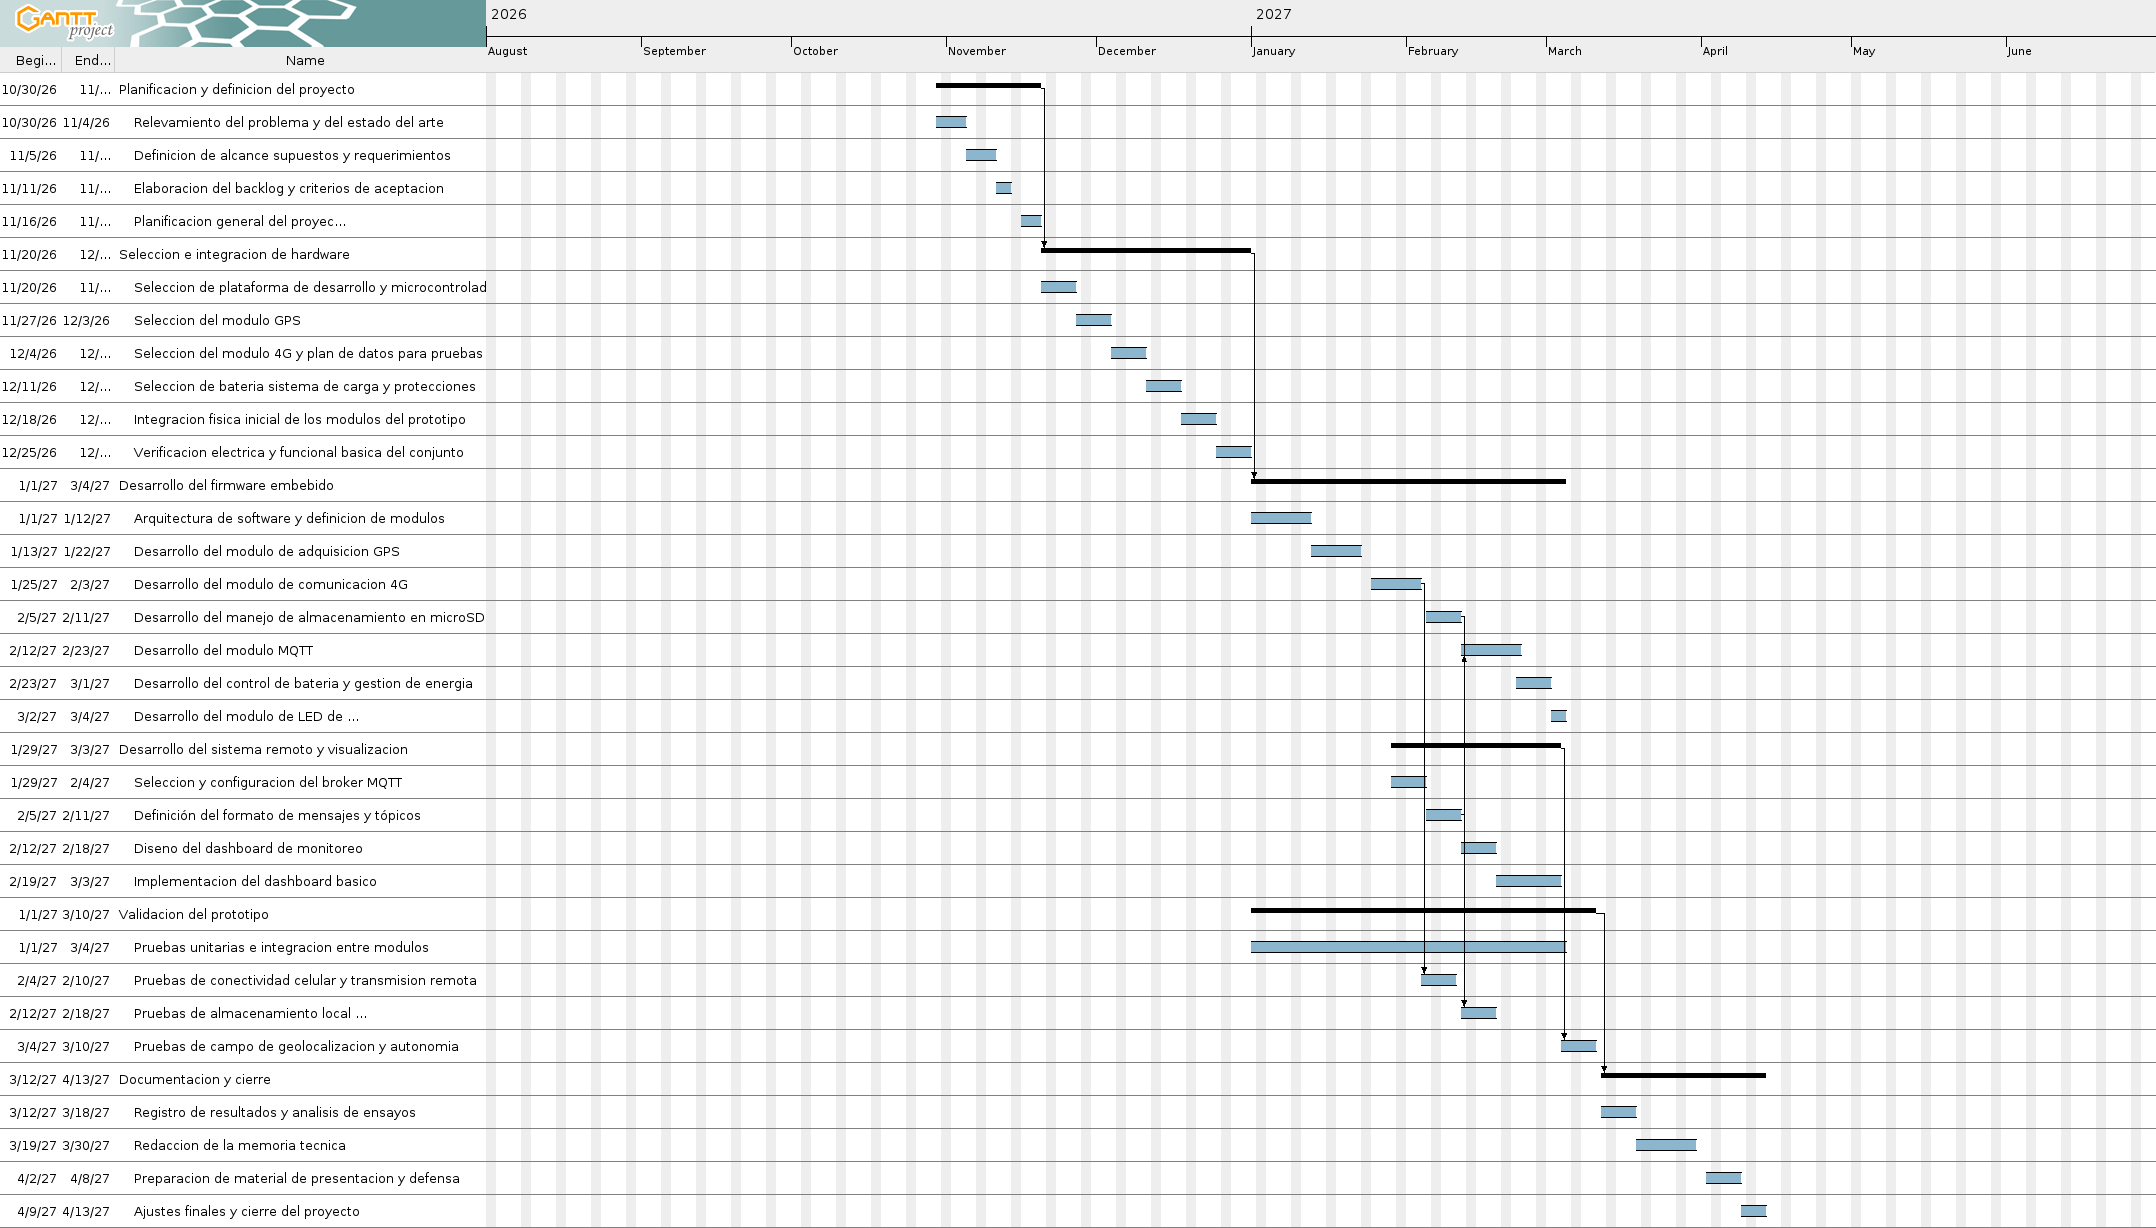
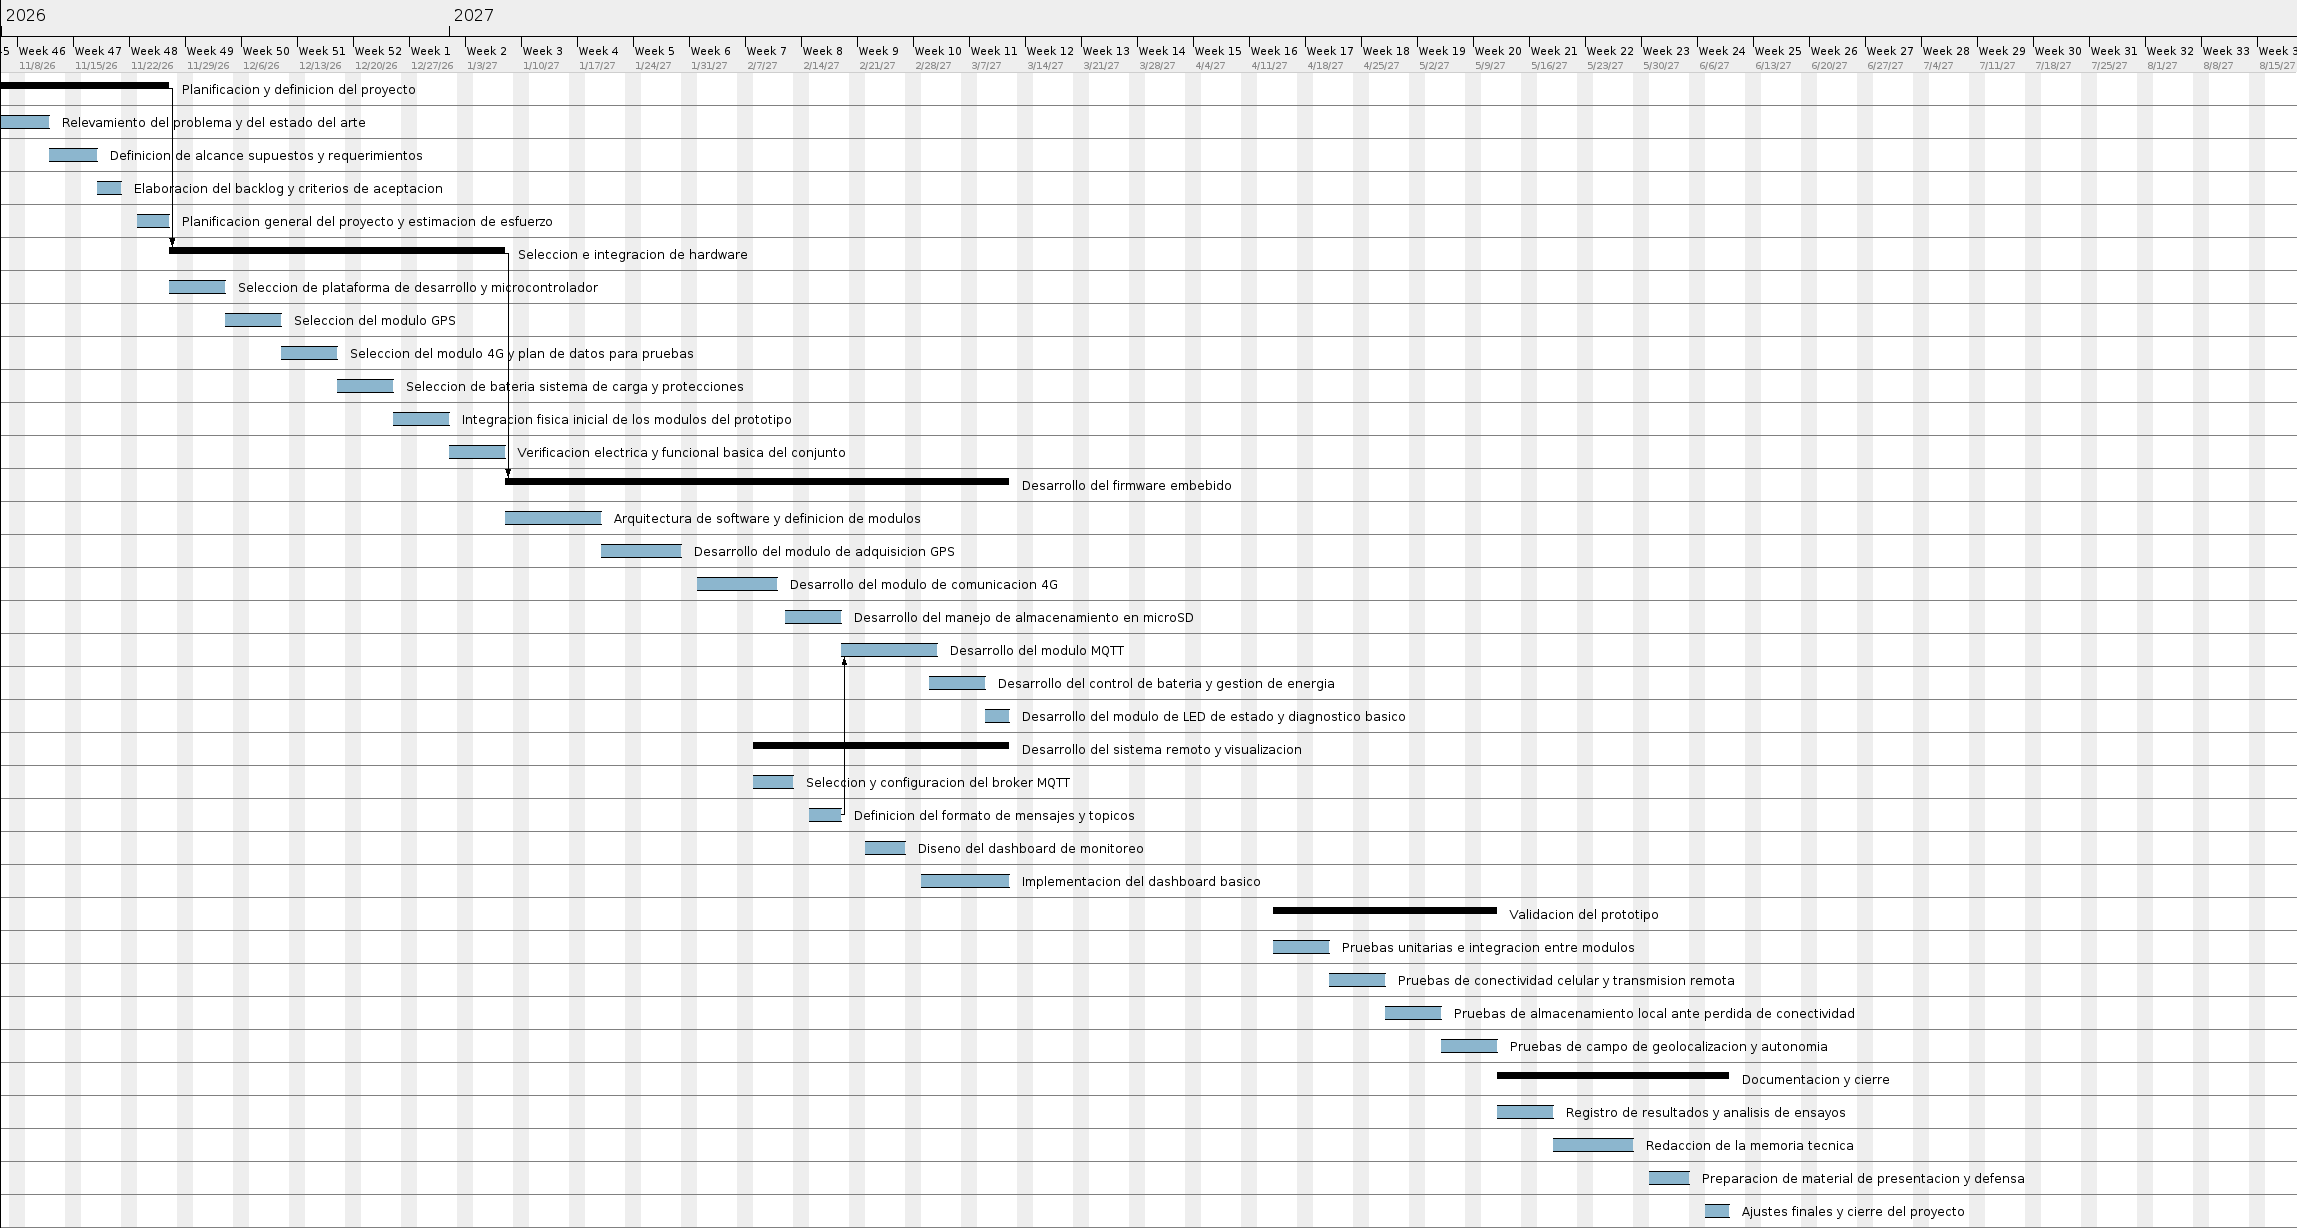
move table

diff --git a/charter.tex b/charter.tex
@@ -28,6 +28,8 @@
 \fechaFINALPlan{16 de junio de 2026} 	%Fecha de final de cursada de GdP
 \fechaFINALTrabajo{junio de 2027}	%Fecha de defensa pública del trabajo final
 
+\usepackage{xltabular}
+
 % Fuerza los nombres automáticos de figuras en español.
 \AtBeginDocument{%
   \selectlanguage{spanish}%
@@ -435,23 +437,14 @@ El diagrama de \textit{Activity on Node} se armó a partir del WBS definido en l
 
 A continuación se muestra una tabla con las fechas de inicio y fin de cada tarea y su carga en cantidad de horas. Además, en la figura \ref{fig:diagGantt} se presenta el diagrama de Gantt del proyecto. Este cronograma resume la distribución temporal de las actividades principales, muestra las tareas del EDT y deberá mantenerse consistente con la fecha de finalización indicada en el Acta Constitutiva.
 
-\setlength{\LTleft}{0pt}
-\setlength{\LTright}{0pt}
-\fontsize{6.4}{7.0}\selectfont
+\normalsize
 \setlength{\tabcolsep}{2pt}
 \renewcommand{\arraystretch}{0.88}
-\begin{longtable}{|C{0.7cm}|L{6.4cm}|C{1.8cm}|C{1.8cm}|C{1.2cm}|}
-\rowcolor[HTML]{C0C0C0}
-ID & Actividad & Fecha de inicio & Fecha de fin & Duración \\ \hline
-\endfirsthead
+\centering
+\begin{tabularx}{\linewidth}{@{}|C{0.8cm}|>{\raggedright\arraybackslash}X|C{1.9cm}|C{1.9cm}|C{1.6cm}|@{}}
 \hline
 \rowcolor[HTML]{C0C0C0}
-ID & Actividad & Fecha de inicio & Fecha de fin & Duración \\ \hline
-\endhead
-\hline
-\endfoot
-\hline
-\endlastfoot
+ID & Actividad & \shortstack{Fecha de\\inicio} & \shortstack{Fecha de\\fin} & Duración \\ \hline
 1 & Planificación y definición del proyecto & 1/11/27 & 1/29/27 & 15 \\ \hline
 2 & Relevamiento del problema y del estado del arte & 1/11/27 & 1/14/27 & 4 \\ \hline
 3 & Definición de alcance, supuestos y requerimientos & 1/15/27 & 1/20/27 & 4 \\ \hline
@@ -488,9 +481,9 @@ ID & Actividad & Fecha de inicio & Fecha de fin & Duración \\ \hline
 34 & Preparación de material de presentación y defensa & 8/3/27 & 8/9/27 & 5 \\ \hline
 35 & Ajustes finales y cierre del proyecto & 8/10/27 & 8/12/27 & 3 \\ \hline
 
-\caption[]{Actividades consideradas para el diagrama de Gantt.}
+\end{tabularx}
+\captionof{table}{Actividades consideradas para el diagrama de Gantt.}
 \label{tab:gantt-actividades}
-\end{longtable}
 \normalsize
 
 \clearpage
